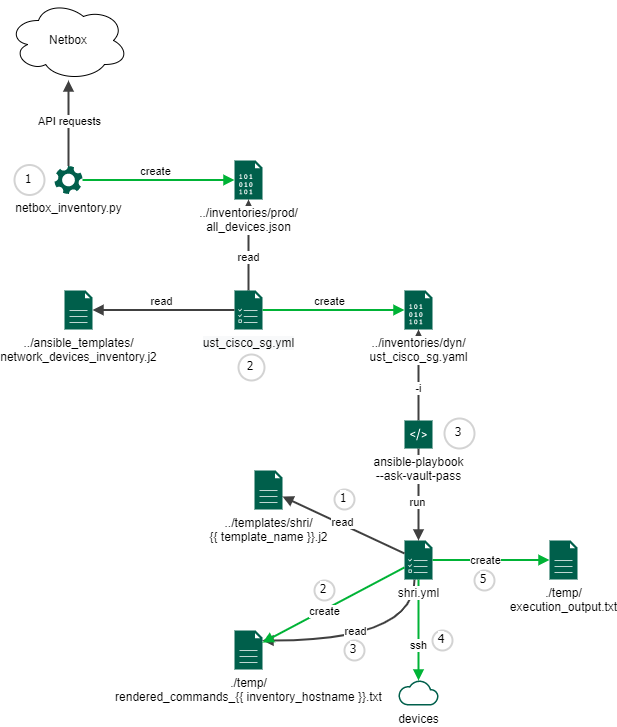
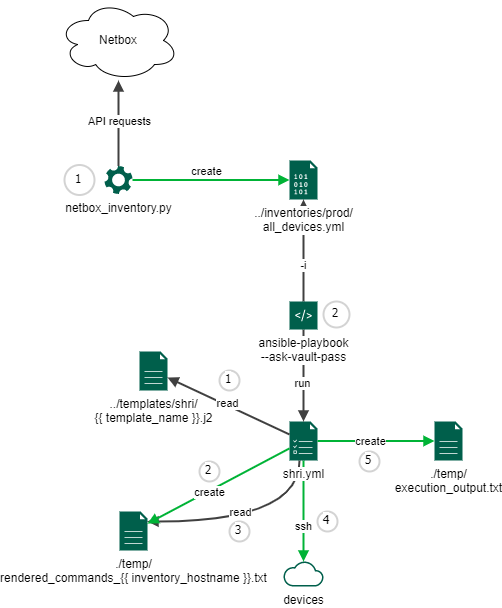
project structure optimizing

Changed region(s): [[0.0, 0.0, 1.0, 1.0], [0.3287, 0.0312, 0.3586, 0.0938], [0.2689, 0.0938, 0.3287, 0.125]]

diff --git a/netbox/netbox_inventory.py b/netbox/netbox_inventory.py
@@ -1,7 +1,8 @@
-import json
 import yaml
+
 from custom_modules.netbox_connector import NetboxDevice
 from custom_modules.log import logger
+
 
 # Load the configuration from the YAML file
 with open('netbox_inventory.yml', 'r') as file:
@@ -19,27 +20,17 @@ NetboxDevice.create_connection()
 devices = NetboxDevice.get_netbox_objects(path, action=action, **search_params)
 logger.info('Netbox generator successfully created')
 
-# Organize devices hierarchically
-hierarchy = {}
+# Organize devices dynamically into groups
+inventory = {'all': {'children': {}}}
 
 for device in devices:
     if device.device_type.manufacturer.slug == 'noname':
         continue
-    logger.info(f'Processing {device.name}...')
+    logger.info(f'Processing {device.display}...')
     site_name = device.site.slug if device.site else "Unknown"
     role_name = device.device_role.slug if device.device_role else "Unknown"
     manufacturer_name = device.device_type.manufacturer.slug if device.device_type.manufacturer else "Unknown"
     device_type_name = device.device_type.slug if device.device_type else "Unknown"
-
-    # Initialize dictionaries as needed
-    if site_name not in hierarchy:
-        hierarchy[site_name] = {}
-    if role_name not in hierarchy[site_name]:
-        hierarchy[site_name][role_name] = {}
-    if manufacturer_name not in hierarchy[site_name][role_name]:
-        hierarchy[site_name][role_name][manufacturer_name] = {}
-    if device_type_name not in hierarchy[site_name][role_name][manufacturer_name]:
-        hierarchy[site_name][role_name][manufacturer_name][device_type_name] = []
 
     # Fetch interfaces for the given device
     interfaces = NetboxDevice.get_netbox_objects('dcim.interfaces', action='filter', device_id=device.id)
@@ -50,18 +41,25 @@ for device in devices:
             "type": interface.type.value,
             "mode": interface.mode and str(interface.mode.value),
         })
-    
-    # Append the device to the appropriate list
-    hierarchy[site_name][role_name][manufacturer_name][device_type_name].append({
-        "name": device.name,
-        "primary_ip": device.primary_ip.address.split('/')[0] if device.primary_ip else "no_ip",
+
+    device_info = {
+        "ansible_host": device.primary_ip.address.split('/')[0] if device.primary_ip else "no_ip",
         "interfaces": device_interfaces,
-    })
-logger.info('Hierarchical organizing completed')
+    }
 
-# Формируем итоговый инвентарь
-inventory = {'hierarchy': hierarchy}
+    # Add device to groups
+    groups = [site_name, role_name, manufacturer_name, device_type_name]
+    for group in groups:
+        # Sanitize the group name
+        group = group.replace('-', '_')
+        if group not in inventory['all']['children']:
+            inventory['all']['children'][group] = {'hosts': {}}
+        inventory['all']['children'][group]['hosts'][device.display] = device_info
 
-logger.info('Creating JSON file...')
-with open('../inventories/prod/all_devices.json', 'w') as f:
-    json.dump(inventory, f, indent=4)
+logger.info('Dynamic hierarchical organizing completed')
+
+# Write the inventory into a YAML file
+inventory_path = '../inventories/prod/all_devices.yml'
+with open(inventory_path, 'w') as f:
+    yaml.dump(inventory, f, allow_unicode=True, sort_keys=False)
+logger.info('Ansible inventory YAML file created successfully')

diff --git a/README.md b/README.md
@@ -13,8 +13,7 @@
     source ~/.bashrc
     ```
 5. Запускаем py-скрипт `netbox_inventory.py` для получения списка всех устройств из Netbox в json-формате
-6. Запуск плейбука (например, `ust_cisco_sg.yml`) формирует соответствующий inventory-файл
-7. Создать защищенное хранилище переменных плейбуков:  
+6. Создать защищенное хранилище переменных плейбуков:  
     ```
     ansible-vault create creds.yml
     ```
@@ -30,5 +29,8 @@
     ansible-vault edit creds.yml
     ansible-vault view creds.yml
     ```
-8. К целевому списку устройств можно применить желаемый шаблон команд. Запускать из папки с плейбуками:  
-`ansible-playbook -i ../inventories/dyn/ust_cisco_sg.yaml show_vlan.yml --ask-vault-pass`
+7. К целевому списку устройств можно применить желаемый шаблон команд. Запускать из папки с плейбуками:  
+`ansible-playbook -i ../inventories/prod/all_devices.yml shri.yml --ask-vault-pass`  
+7.1 Отвечаем на несложные вопросы про группу, а позже про интерфейсы  
+7.1.1 "must-have" группы, это группы, в которые устройства должны входить обязательно  
+7.1.2 в "optional groups" перечисляем группы с логикой `OR`. Даже если логика `OR` не требуется, для корректной работы плейбука необходимо указать хотя бы одну группу как опциональную  
